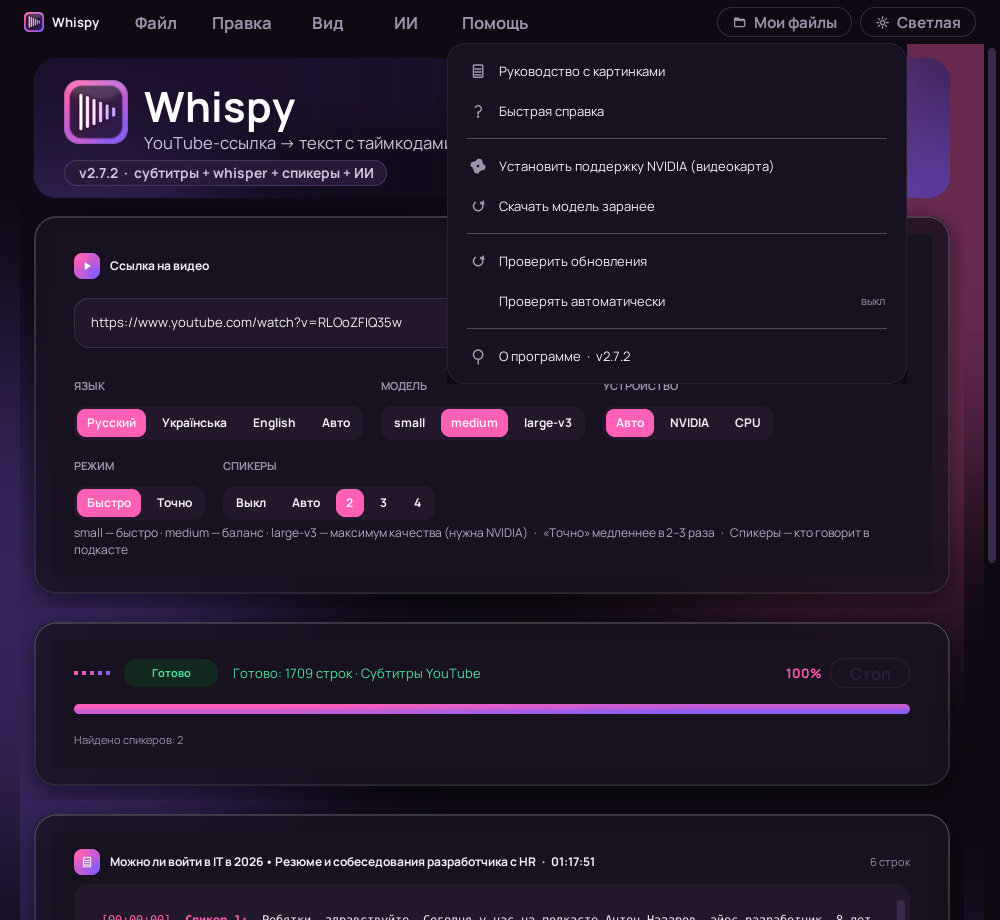
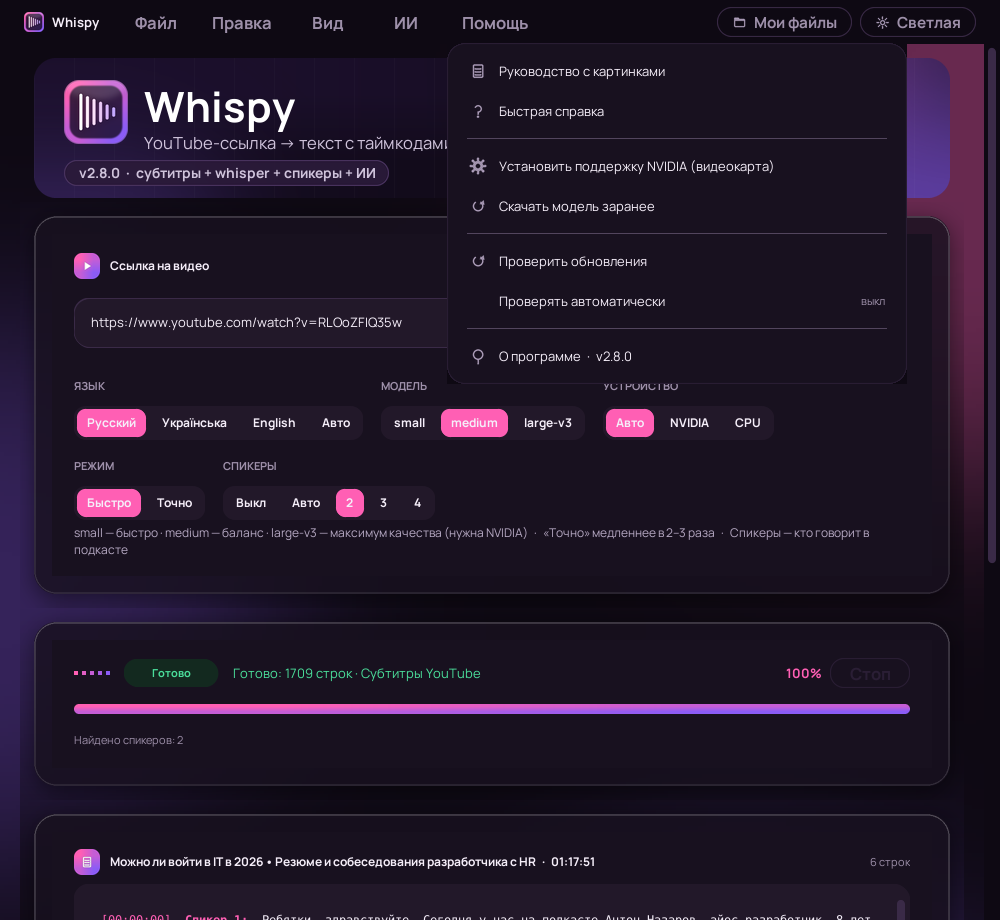
2.8.0: быстрый старт и смена темы, готовые провайдеры в блоке, чат провайдера, новая иконка, фикс disabled-кнопки
Claude-Session: https://claude.ai/code/session_01S2yJaERcb5RkzNkB8S1xRH

diff --git a/app.py b/app.py
@@ -26,7 +26,7 @@ import urllib.request
 import tkinter as tk
 from tkinter import font as tkfont
 
-APP_VERSION = "2.7.3"
+APP_VERSION = "2.8.0"
 UPDATE_URL = "https://raw.githubusercontent.com/alegawhats-del/Whispy/main/version.json"
 GITHUB_URL = "https://github.com/alegawhats-del/Whispy"
 
@@ -164,6 +164,25 @@ AI_PROVIDERS = {
     "OpenRouter (любая модель)": ("openai", "https://openrouter.ai/api/v1/chat/completions", "anthropic/claude-sonnet-4.5", True, "https://openrouter.ai/keys"),
     "Ollama (локально)": ("openai", "http://localhost:11434/v1/chat/completions", "llama3.1", False, "https://ollama.com"),
     "Свой сервер (OpenAI API)": ("openai", "http://localhost:8000/v1/chat/completions", "default", False, ""),
+}
+# Веб-чат провайдера — для варианта «скопировать промпт и вставить в чат»
+AI_CHAT = {
+    "Pollinations (бесплатно, без ключа)": ("Pollinations", "https://pollinations.ai"),
+    "Anthropic (Claude)": ("Claude", "https://claude.ai/new"),
+    "OpenAI (GPT)": ("ChatGPT", "https://chatgpt.com"),
+    "Google Gemini": ("Gemini", "https://gemini.google.com/app"),
+    "DeepSeek": ("DeepSeek", "https://chat.deepseek.com"),
+    "Mistral": ("Le Chat", "https://chat.mistral.ai"),
+    "Groq (быстро, бесплатно)": ("Groq", "https://chat.groq.com"),
+    "NVIDIA NIM (бесплатно)": ("NVIDIA", "https://build.nvidia.com"),
+    "Ollama Cloud (бесплатно)": ("Ollama", "https://ollama.com"),
+    "Z.AI GLM (бесплатно)": ("Z.AI", "https://chat.z.ai"),
+    "Cerebras (бесплатно, быстро)": ("Cerebras", "https://inference.cerebras.ai"),
+    "GitHub Models (бесплатно)": ("GitHub", "https://github.com/marketplace/models"),
+    "xAI (Grok)": ("Grok", "https://grok.com"),
+    "OpenRouter (любая модель)": ("OpenRouter", "https://openrouter.ai/chat"),
+    "Ollama (локально)": ("Ollama", "https://ollama.com"),
+    "Свой сервер (OpenAI API)": ("чат", ""),
 }
 DEFAULT_PROVIDER = "Pollinations (бесплатно, без ключа)"
 # Профиль провайдера: (качество 1–5, для каких задач лучше всего, примерный бесплатный лимит в день (0 = без лимита / платно), подпись лимита)
@@ -775,15 +794,15 @@ def icon_image(name, size, color, bg=None):
         d.ellipse([4 * u, 4 * u, 20 * u, 20 * u], fill=c)
         d.ellipse([8.5 * u, 1.5 * u, 23 * u, 16 * u], fill=(0, 0, 0, 0))
     elif name == "gear":
-        pts = []
-        for k in range(24):
-            r = 10 if (k // 3) % 2 == 0 else 7.6
-            a = math.radians(k * 15)
-            pts.append((12 * u + r * u * math.cos(a), 12 * u + r * u * math.sin(a)))
-        d.polygon(pts, fill=c)
-        d.ellipse([8.6 * u, 8.6 * u, 15.4 * u, 15.4 * u], fill=(0, 0, 0, 0))
-        d.ellipse([8.6 * u, 8.6 * u, 15.4 * u, 15.4 * u], outline=c, width=w)
-        d.ellipse([9.6 * u + w, 9.6 * u + w, 14.4 * u - w, 14.4 * u - w], fill=(0, 0, 0, 0))
+        # 8 скруглённых зубцов + кольцо: читается на 14–18 px, без «ромбика»
+        for k in range(8):
+            a = math.radians(k * 45)
+            x1, y1 = 12 * u + 6.2 * u * math.cos(a), 12 * u + 6.2 * u * math.sin(a)
+            x2, y2 = 12 * u + 9.6 * u * math.cos(a), 12 * u + 9.6 * u * math.sin(a)
+            d.line([(x1, y1), (x2, y2)], fill=c, width=int(3.2 * u))
+            d.ellipse([x2 - 1.6 * u, y2 - 1.6 * u, x2 + 1.6 * u, y2 + 1.6 * u], fill=c)
+        d.ellipse([5.2 * u, 5.2 * u, 18.8 * u, 18.8 * u], fill=c)
+        d.ellipse([9.2 * u, 9.2 * u, 14.8 * u, 14.8 * u], fill=(0, 0, 0, 0))
     elif name == "close":
         line([(7, 7), (17, 17)])
         line([(17, 7), (7, 17)])
@@ -851,7 +870,9 @@ class GradientButton(tk.Canvas):
         pressed = Image.new("RGB", (width + g * 2, height + g * 2), hex_rgb(bg))
         pressed.paste(pill(pw, ph, c1, c2, bg, glow=g), ((width - pw) // 2, (height - ph) // 2))
         self._pressed = ImageTk.PhotoImage(pressed)
-        self._disabled = ImageTk.PhotoImage(flat_pill(width + g * 2, height + g * 2, T["FIELD"], bg, radius=(height + g * 2) // 2))
+        dis = Image.new("RGB", (width + g * 2, height + g * 2), hex_rgb(bg))
+        dis.paste(flat_pill(width, height, T["FIELD"], bg, radius=height // 2), (g, g))
+        self._disabled = ImageTk.PhotoImage(dis)
         self._frame = 0
         self._target = 0
         self._job = None
@@ -1184,17 +1205,21 @@ def page_background(w, h):
     key = (w, h, T["BG"])
     if key in _BG_CACHE:
         return _BG_CACHE[key]
-    base = Image.new("RGB", (w, h), hex_rgb(T["BG"]))
-    blobs = Image.new("RGBA", (w, h), (0, 0, 0, 0))
+    # считаем в 1/4 масштаба (размытие в 16 раз дешевле), потом растягиваем — глазу разницы нет
+    k = 4
+    sw, sh = max(1, w // k), max(1, h // k)
+    base = Image.new("RGB", (sw, sh), hex_rgb(T["BG"]))
+    blobs = Image.new("RGBA", (sw, sh), (0, 0, 0, 0))
     d = ImageDraw.Draw(blobs)
     dark = T["HERO_TEXT"] == "#FFFFFF"
     a1, a2 = (95, 80) if dark else (120, 100)
-    d.ellipse([w * 0.55, -h * 0.05, w * 1.15, h * 0.35], fill=hex_rgb(T["PINK"]) + (a1,))
-    d.ellipse([-w * 0.25, h * 0.15, w * 0.35, h * 0.6], fill=hex_rgb(T["VIOLET"]) + (a2,))
-    d.ellipse([w * 0.4, h * 0.55, w * 1.1, h * 1.05], fill=hex_rgb(T["VIOLET"]) + (a1 - 20,))
-    d.ellipse([w * 0.05, h * 0.75, w * 0.5, h * 1.15], fill=hex_rgb(T["PINK"]) + (a2 - 30,))
-    blobs = blobs.filter(ImageFilter.GaussianBlur(max(40, w * 0.12)))
+    d.ellipse([sw * 0.55, -sh * 0.05, sw * 1.15, sh * 0.35], fill=hex_rgb(T["PINK"]) + (a1,))
+    d.ellipse([-sw * 0.25, sh * 0.15, sw * 0.35, sh * 0.6], fill=hex_rgb(T["VIOLET"]) + (a2,))
+    d.ellipse([sw * 0.4, sh * 0.55, sw * 1.1, sh * 1.05], fill=hex_rgb(T["VIOLET"]) + (a1 - 20,))
+    d.ellipse([sw * 0.05, sh * 0.75, sw * 0.5, sh * 1.15], fill=hex_rgb(T["PINK"]) + (a2 - 30,))
+    blobs = blobs.filter(ImageFilter.GaussianBlur(max(10, sw * 0.12)))
     base.paste(blobs, (0, 0), blobs)
+    base = base.resize((w, h), Image.BILINEAR)
     _BG_CACHE.clear()
     _BG_CACHE[key] = base
     return base
@@ -1213,7 +1238,8 @@ def glass_card_image(bg, x, y, w, h, radius=22, shadow=14):
     out = crop.copy()
     out.paste(sh, (0, 0), sh)
     # стекло: размытый фон + тонировка цветом карточки
-    glass = crop.crop((shadow, shadow, shadow + w, shadow + h)).filter(ImageFilter.GaussianBlur(16))
+    g0 = crop.crop((shadow, shadow, shadow + w, shadow + h))
+    glass = g0.resize((max(1, w // 4), max(1, h // 4)), Image.BILINEAR).filter(ImageFilter.GaussianBlur(4)).resize((w, h), Image.BILINEAR)
     tint = Image.new("RGB", (w, h), hex_rgb(T["CARD"]))
     glass = Image.blend(glass, tint, 0.82 if dark else 0.90)
     mask = rounded_mask(w, h, radius)
@@ -1700,7 +1726,7 @@ class AIPanel(Panel):
     }
 
     def __init__(self, master):
-        super().__init__(master, 620, 620)
+        super().__init__(master, 640, 660)
         self.header("sparkle", T["VIOLET"], T["PINK_SOFT"], "Настроить ИИ")
         cfg = master.ai_cfg
         f_lab = ctk.CTkFont(family=UI_FONT, size=11, weight="bold")
@@ -1732,8 +1758,8 @@ class AIPanel(Panel):
         self.base_entry = self._entry(box, self.base, f_in)
         self.base_entry.grid(row=7, column=0, sticky="ew", pady=(4, 10))
 
-        self.hint = ctk.CTkLabel(box, text="", text_color=T["MUTED"], font=ctk.CTkFont(family=UI_FONT, size=12), anchor="nw",
-                                 justify="left", wraplength=530)
+        self.hint = ctk.CTkLabel(box, text="", text_color=T["HINT"], font=ctk.CTkFont(family=UI_FONT, size=12.5 if False else 13), anchor="nw",
+                                 justify="left", wraplength=540)
         self.hint.grid(row=8, column=0, sticky="nw")
 
         btns = ctk.CTkFrame(self.body, fg_color="transparent")
@@ -1743,8 +1769,8 @@ class AIPanel(Panel):
         self.keysite_btn = GhostButton(btns, "Где взять ключ", self._open_site, width=150, height=40, bg=T["CARD"], icon="key", icon_size=15)
         self.keysite_btn.pack(side="left")
         self._on_provider(self.prov.get(), first=True)
-        ctk.CTkLabel(box, text="✓ — ключ уже есть (встроенный или свой). Свой ключ заменяет встроенный.", text_color=T["MUTED"],
-                     font=ctk.CTkFont(family=UI_FONT, size=11), anchor="w").grid(row=9, column=0, sticky="w", pady=(8, 0))
+        ctk.CTkLabel(box, text="✓ — ключ уже есть (встроенный или свой). Свой ключ заменяет встроенный.", text_color=T["HINT"],
+                     font=ctk.CTkFont(family=UI_FONT, size=12), anchor="w").grid(row=9, column=0, sticky="w", pady=(8, 0))
         self.bind("<Return>", lambda e: self._save())
 
     def _entry(self, parent, var, font, secret=False):
@@ -2421,7 +2447,7 @@ class App(ctk.CTk):
         self.title("Whispy — YouTube в текст")
         self.geometry(self.settings.get("geometry", "1000x920"))
         self.minsize(760, 600)
-        self.attributes("-alpha", 0.0)
+        self.withdraw()  # собираем интерфейс скрытно и показываем уже готовым — без «полупрозрачного» старта
 
         self.mono = "Cascadia Code" if font_exists("Cascadia Code") else "Consolas"
         self.q = queue.Queue()
@@ -2470,7 +2496,7 @@ class App(ctk.CTk):
         self.after(50, self.dark_titlebar)
         self.after(50, self._hero_tick)
         self.after(600, self.set_icon)
-        self.after(30, lambda: self._fade_in(0))
+        self.after(30, self._reveal)
         if self.settings.get("auto_update", True):
             self.after(3000, lambda: self.check_updates(silent=True))
         if self.settings.get("prefetch", True):
@@ -2478,10 +2504,11 @@ class App(ctk.CTk):
         self.protocol("WM_DELETE_WINDOW", self.on_close)
 
     # ---- системное ----
-    def _fade_in(self, i):
-        if i <= 10:
-            self.attributes("-alpha", ease_out(i / 10))
-            self.after(16, lambda: self._fade_in(i + 1))
+    def _reveal(self):
+        self.update_idletasks()
+        self.attributes("-alpha", 1.0)
+        self.deiconify()
+        self.lift()
 
     def set_icon(self):
         p = resource("whispy.ico")
@@ -2621,7 +2648,7 @@ class App(ctk.CTk):
             ],
             "ИИ": [(f"{k}  →  скопировать промпт + текст", (lambda k=k: self.copy_ai_prompt(k)), None, "doc") for k in AI_TYPES] + [
                 None,
-                ("Открыть Claude в браузере", lambda: webbrowser.open("https://claude.ai/new"), None, "sparkle"),
+                (f"Открыть {self.chat_name()} в браузере", self.open_chat, None, "sparkle"),
                 ("Настроить ИИ (провайдер, модель, ключ)…", self.ask_api_key, None, "gear"),
             ],
             "Помощь": [
@@ -2781,13 +2808,13 @@ class App(ctk.CTk):
         self.ai_seg = aiflow.add(self.seg(aiflow, AI_TYPES, self.ai_var))
         self.ai_prov_var = tk.StringVar(value=self.ai_cfg.get("provider", DEFAULT_PROVIDER))
         self.ai_prov_menu = aiflow.add(ctk.CTkOptionMenu(
-            aiflow, variable=self.ai_prov_var, values=list(AI_PROVIDERS.keys()), height=36, corner_radius=12, width=250,
+            aiflow, variable=self.ai_prov_var, values=self.ready_providers(), height=36, corner_radius=12, width=250,
             font=ctk.CTkFont(family=UI_FONT, size=12, weight="bold"), fg_color=T["FIELD"], button_color=T["VIOLET"], button_hover_color=T["PINK"],
             text_color=T["TEXT"], dropdown_fg_color=T["CARD"], dropdown_text_color=T["TEXT"], dropdown_hover_color=T["PINK_SOFT"],
             dropdown_font=ctk.CTkFont(family=UI_FONT, size=13), command=self.pick_provider))
         self.ai_api_btn = aiflow.add(GradientButton(aiflow, "Сделать через API", self.run_ai_api, width=170, height=38, bg=T["CARD"], font=(UI_FONT, 12, "bold")))
         self.ai_copy_btn = aiflow.add(GhostButton(aiflow, "Скопировать промпт + текст", lambda: self.copy_ai_prompt(), width=230, height=38, bg=T["CARD"]))
-        self.ai_open_btn = aiflow.add(GhostButton(aiflow, "Открыть Claude", lambda: webbrowser.open("https://claude.ai/new"), width=140, height=38, bg=T["CARD"]))
+        self.ai_open_btn = aiflow.add(GhostButton(aiflow, f"Открыть {self.chat_name()}", self.open_chat, width=140, height=38, bg=T["CARD"], icon="sparkle", icon_size=15))
         self.ai_result_btn = aiflow.add(GhostButton(aiflow, "Открыть результат", self.open_ai_file, width=160, height=38, bg=T["CARD"]))
         self.ai_key_btn = aiflow.add(GhostButton(aiflow, "Настроить ИИ", self.ask_api_key, width=130, height=38, bg=T["CARD"],
                                                  text_color=T["MUTED"], icon="gear", icon_size=16))
@@ -2910,10 +2937,9 @@ class App(ctk.CTk):
         self.theme = "light" if self.theme == "dark" else "dark"
         apply_theme(self.theme)
         self.persist()
-        self.attributes("-alpha", 0.0)
-        self.build()
+        self.build()  # мгновенно, без затемнения
         self.dark_titlebar()
-        self.after(20, lambda: self._fade_in(0))
+        self.update_idletasks()
 
     def set_theme(self, name):
         if name != self.theme:
@@ -3100,6 +3126,21 @@ class App(ctk.CTk):
         self.refresh_ai_hint()
         self.refresh_buttons()
 
+    def chat_name(self):
+        return AI_CHAT.get(self.ai_cfg.get("provider", DEFAULT_PROVIDER), ("чат", ""))[0]
+
+    def open_chat(self):
+        url = AI_CHAT.get(self.ai_cfg.get("provider", DEFAULT_PROVIDER), ("", ""))[1] or "https://claude.ai/new"
+        webbrowser.open(url)
+
+    def ready_providers(self):
+        """В блоке показываем только тех, кто готов к работе (есть ключ или ключ не нужен); остальные — в «Настроить ИИ»."""
+        lst = [n for n in AI_PROVIDERS if key_state(self.ai_cfg, n)]
+        cur = self.ai_cfg.get("provider", DEFAULT_PROVIDER)
+        if cur not in lst:
+            lst.insert(0, cur)
+        return lst
+
     def pick_provider(self, name):
         """Смена ИИ прямо из блока: без ключа — сразу открываем настройку."""
         self.ai_cfg["provider"], self.ai_cfg["model"], self.ai_cfg["base"] = name, "", ""
@@ -3112,7 +3153,8 @@ class App(ctk.CTk):
         name = self.ai_cfg.get("provider", DEFAULT_PROVIDER)
         if hasattr(self, "ai_prov_var"):
             self.ai_prov_var.set(name)
-            self.ai_prov_menu.configure(values=[n for n in AI_PROVIDERS])
+            self.ai_prov_menu.configure(values=self.ready_providers())
+            self.ai_open_btn.configure(text=f"Открыть {self.chat_name()}")
         q, best, _, lim = AI_PROFILE.get(name, (3, "", 0, ""))
         model = self.ai_cfg.get("model") or AI_PROVIDERS.get(name, AI_PROVIDERS[DEFAULT_PROVIDER])[2]
         st = key_state(self.ai_cfg, name)

diff --git a/NOTES.md b/NOTES.md
@@ -1,4 +1,5 @@
-• Выбор ИИ прямо в блоке «ИИ-ассистент» (выпадающий список)
-• В «Настроить ИИ» помечены провайдеры, у которых уже есть ключ (✓); свой ключ заменяет встроенный
-• Исправлено зависание окна руководства; если встроенное окно не открылось — страница откроется в браузере
-• Подсказки крупнее и контрастнее; «Мои файлы»: имена с многоточием, кнопки по колонкам
+• Окно открывается сразу готовым, без полупрозрачного старта; смена темы мгновенная (фон и стекло считаются в 16 раз быстрее)
+• В блоке ИИ показываются только готовые к работе провайдеры (есть ключ или ключ не нужен); полный список — в «Настроить ИИ»
+• Кнопка «Открыть чат» ведёт на чат выбранного провайдера (Claude, ChatGPT, Gemini, DeepSeek…), в меню ИИ тоже
+• Новая иконка настроек; «Сделать через API» в выключенном виде больше не налезает на соседние кнопки
+• Текст в «Настроить ИИ» крупнее и контрастнее
